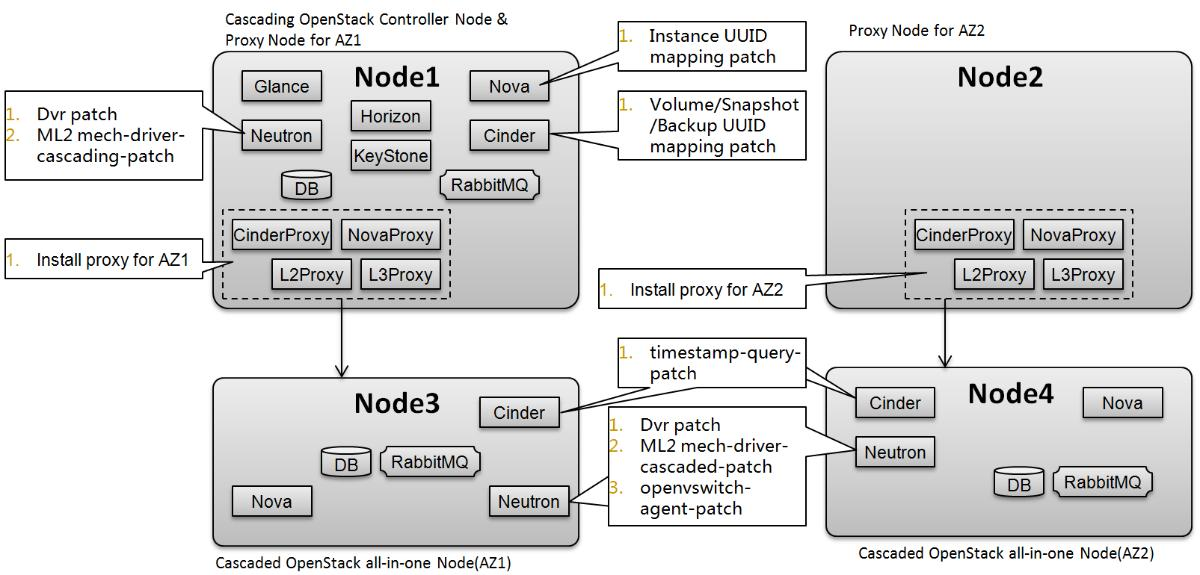
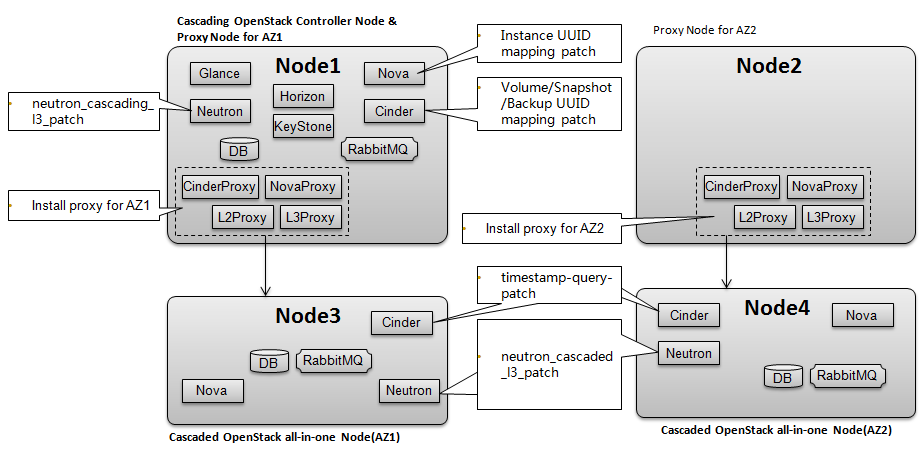
Modify Readme and install files
For Juno, the whole cascading readme file and the configuration
and install scripts  need to be changed.

Changed region(s): [[0.0, 0.0, 1.0, 0.9933], [0.82, 0.8071, 0.9718, 0.8692]]

diff --git a/README.md b/README.md
@@ -1,4 +1,4 @@
-Tricircle
+Tricircle
 ===============================
 
 Tricircle is a project for [Openstack cascading solution](https://wiki.openstack.org/wiki/OpenStack_cascading_solution), including the source code of Nova Proxy, Cinder Proxy, Neutron L2/L3 Proxy, Glance sync manager and Ceilometer Proxy(not implemented yet).
@@ -8,16 +8,12 @@ The project name "Tricircle" comes from a fractal. See the blog ["OpenStack casc
 Important to know
 -----------
 * Only about 15k code lines developed for OpenStack cascading.
-* The initial source code is for PoC only. Refactory will be done constantly to reach OpenStack acceptance standard.
-* DVR-Patch for IceHouse: the PoC source code is based on IceHouse version, while Neutron is a master branch snapshot on July 1, 2014 which include DVR feature, not IceHouse version. The Neutron code is download from github when it was still in the developement and review status. The source code of DVR part is not stable, and not all DVR features are included, for example, N-S functions not ready.
-* DVR-Patch is the majority source code in the repository, about 180k. The patch will be remove if OpenStack cascading is developed base on Juno.
-* The Neutron cascading using the feature of provider network. But horizon doen't support provider network very well. So you have to use Neutron CLI to create a network. Or set default provide network type to VxLAN, or remove "local", "flat", "VLAN", "GRE" network typedriver from ML2 plugin configuration.
-* For Neutron L2/L3 features, only VxLAN/L3 across casacaded OpenStack supported in the current source code. VLAN2VLAN, VLAN2VxLAN and VxLAN2VxLAN across cascaded OpenStack also implemented with IceHouse version but the patch is not ready yet, source code is in the VLAN2VLAN folder.
-* The tunneling network for cross OpenStack piggy data path is using VxLAN, it leads to modification on L2 agent and L3 agent, we will refactory it to using GRE for the tunneling network to reduce patch for Juno version.
-* If you want to experience VLAN2VLAN, VLAN2VxLAN and VxLAN2VxLAN across cascaded OpenStack, please ask help from PoC team member, see the wiki page [Openstack cascading solution](https://wiki.openstack.org/wiki/OpenStack_cascading_solution) for contact information.
+* The source code now based on Juno is for PoC only. Refactory will be done constantly to reach OpenStack acceptance standard.
+* The Neutron cascading using the feature of provider network. But horizon doen't support provider network very well. So you have to use Neutron CLI to create a network.
+* Support L2 networking(VxLAN) across cascaded OpenStack, but only p2p remote host IP tunneling supported now.L2 networking through L2GW to reduce population traffic and simplify networking topology will be developed in the near future.
+* The L3 networking across casacaded OpenStack will set up tunneling network for piggy data path, useing GRE tunneling over extra_route to brige the router in different cascaded OpenStack.Therefore, the loca L2 network (VLAN,VxLAN) in one cascaded OpenStack can reach L2 network(VLAN,VxLAN) located in another cascaded OpenStack.
 * Glance cascading using Glance V2 API. Only CLI/pythonclient support V2 API, the Horizon doesn't support that version. So image management should be done through CLI, and using V2 only. Otherwise, the glance cascading cannot work properly.
 * Glance cascading is not used by default, eg, useing global Glance by default. If Glance cascading is required, configuration is required.
-* Refactory the Tricircle source code based on Juno version will be started soon once the Juno version is available.
 
 
 Key modules
@@ -25,11 +21,11 @@ Key modules
 
 * Nova proxy
 
-    Similar role like Nova-Compute. Transfer the VM operation to cascaded Nova. Also responsible for attach volume and network to the VM in the cascaded OpenStack.
+    The hypervisor driver for Nova running on Nova-Compute node. Transfer the VM operation to cascaded Nova. Also responsible for attach volume and network to the VM in the cascaded OpenStack.
 
 * Cinder proxy
 
-    Similar role like Cinder-Volume. Transfer the volume operation to cascaded Cinder.
+    The Cinder-Volume driver for Cinder running on Cinder-Volume node.. Transfer the volume operation to cascaded Cinder.
 
 * Neuton proxy
 
@@ -42,9 +38,9 @@ Key modules
 Patches required
 ------------------
 
-* IceHouse-Patches
+* Juno-Patches
 
-    Pacthes for OpenStack IceHouse version, including patches for cascading level and cacscaded level.
+    Pacthes for OpenStack Juno version, including patches for cascading level and cacscaded level.
 
 Feature Supported
 ------------------
@@ -56,7 +52,7 @@ Feature Supported
     Create Volume/Delete Volume/Attach Volume/Detach Volume/Extend Volume/Create Snapshot/Delete Snapshot/List Snapshots/Create Volume from Snapshot/Create Volume from Image/Create Volume from Volume (Clone)/Create Image from Volume
 
 * Neutron cascading
-    Network/Subnet/Port/Router
+    Network/Subnet/Port/Router. Including L2/L3 networking across cascaded OpenStacks
 
 * Glance cascading
     Only support V2 api. Create Image/Delete Image/List Image/Update Image/Upload Image/Patch Location/VM Snapshot/Image Synchronization
@@ -66,19 +62,18 @@ Known Issues
 * Use "admin" role to experience these feature first, multi-tenancy has not been tested well.
 * Launch VM only support "boot from image", "boot from volume", "boot from snapshot"
 * Flavor only support new created flavor synchronized to the cascaded OpenStack, does not support flavor update synchronization to cascaded OpenStack yet.
-* Must make a patch for "Create a volume from image", the patch link: https://bugs.launchpad.net/cinder/+bug/1308058
 
 Installation without Glance cascading
 ------------
 
 * **Prerequisites**
-    - the minimal installation requires three OpenStack IceHouse installated to experience across cascaded OpenStacks L2/L3 function. The minimal setup needs four nodes, see the following picture:
+    - the minimal installation requires three OpenStack Juno installated to experience across cascaded OpenStacks L2/L3 function. The minimal setup needs four nodes, see the following picture:
 
     ![minimal_setup](./minimal_setup.png?raw=true)
 
     - the cascading OpenStack needs two node, Node1 and Node 2. Add Node1 to AZ1, Node2 to AZ2 in the cascading OpenStack for both Nova and Cinder.
 
-    - It's recommended to name the cascading Openstack region to "Cascading_OpenStack" or "Region1"
+    - It's recommended to name the cascading Openstack region to "Cascading" or "Region1"
 
     - Node1 is all-in-one OpenStack installation with KeyStone and Glance, Node1 also function as Nova-Compute/Cinder-Volume/Neutron OVS-Agent/L3-Agent node, and will be replaced to be the proxy node for AZ1.
 
@@ -94,9 +89,9 @@ Installation without Glance cascading
 
     Make sure the 3 OpenStack can work independently before cascading introduced, eg. you can boot VM with network, create volume and attach volume in each OpenStack. After verify that 3 OpenStack can work independently, clean all created resources VM/Volume/Network.
 
-    After all OpenStack installation is ready, it's time to install IceHouse pathces both for cascading OpenStack and cascaded OpenStack, and then replace the Nova-Compute/Cinder-Volume/Neutron OVS-Agent/L3-Agent to Nova Proxy / Cinder Proxy / Neutron l2/l3 Proxy.
+    After all OpenStack installation is ready, it's time to install Juno pathces both for cascading OpenStack and cascaded OpenStack, and then replace the Nova-Compute/Cinder-Volume/Neutron OVS-Agent/L3-Agent to Nova Proxy / Cinder Proxy / Neutron l2/l3 Proxy.
 
-* **IceHouse pachtes installation step by step**
+* **Juno pachtes installation step by step**
 
 1. Node1
   - Patches for Nova - instance_mapping_uuid_patch
@@ -105,147 +100,69 @@ Installation without Glance cascading
 
     Navigate to the folder
     ```
-    cd ./tricircle/icehouse-patches/nova/instance_mapping_uuid_patch
+    cd ./tricircle/juno-patches/nova/instance_mapping_uuid_patch
     ```
     follow README.md instruction to install the patch
 
   - Patches for Cinder - Volume/SnapShot/Backup UUID mapping patch
 
-    This patch is to make the Cinder proxy being able to translate the cascading level (Volume/Snapshot/backup)'s uuid to cascadede level (Volume/Snapshot/backup)'s uuid
+    This patch is to make the Cinder proxy being able to translate the cascading level (Volume/Snapshot/backup)'s uuid to cascaded level (Volume/Snapshot/backup)'s uuid
 
     Navigate to the folder
     ```
-    cd ./tricircle/icehouse-patches/cinder/instance_mapping_uuid_patch
+    cd ./tricircle/juno-patches/cinder/uuid-mapping-patch
     ```
     follow README.md instruction to install the patch
 
-  - Patches for Neutron - DVR patch
+  - Patches for Neutron - neutron_cascading_l3_patch
 
-    This patch is to make the Neutron has the DVR(distributed virtual router) feature. Through DVR, all L2/L3 proxy nodes in the cascading level can receive correspoding RPC message, and then convert the command to restful API to cascaded Neutron.
-
-    Navigate to the folder
-    ```
-    cd ./tricircle/icehouse-patches/neutron/dvr-patch
-    ```
-    follow README.md instruction to install the patch
-
-  - Patches for Neutron - ml2-mech-driver-cascading patch
-
-    This patch is to make L2 population driver being able to populate the VM's host IP which stored in the port binding profile in the cascaded OpenStack to another cascaded OpenStack.
+    This patch is to enable cross cascaded OpenStack L3 routing over extra route.The mapping between cascaded OpenStack and it's onlink external network which is used for GRE tunneling data path
 
     Navigate to the folder
     ```
-    cd ./tricircle/icehouse-patches/neutron/ml2-mech-driver-cascading-patch
+    cd ./tricircle/juno-patches/neutron/neutron_cascading_l3_patch
     ```
     follow README.md instruction to install the patch
 
 2. Node3
-  - Patches for Nova - port binding profile update bug: https://bugs.launchpad.net/neutron/+bug/1338202.
-
-    because ml2-mech-driver-cascaded-patch will update the binding profile in the port, and will be flushed to null if you don't fix the bug.
-
-    You can also fix the bug via:
-
-    Navigate to the folder
-    ```
-    cd ./tricircle/icehouse-patches/icehouse-patches/nova/instance_mapping_uuid_patch/nova/network/neutronv2/
-    cp api.py $python_installation_path/site-packages/nova/network/neutronv2/
-
-    ```
-    the patch will reserve what has been saved in the port binding profile
-
-  - Patches for Cinder - timestamp-query-patch patch
+  - Patches for Cinder - timestamp-query-patch
 
     This patch is to make the cascaded Cinder being able to execute query with timestamp filter, but not to return all objects.
 
     Navigate to the folder
     ```
-    cd ./tricircle/icehouse-patches/cinder/timestamp-query-patch_patch
+    cd ./tricircle/juno-patches/cinder/timestamp-query-patch
     ```
     follow README.md instruction to install the patch
 
-  - Patches for Neutron - DVR patch
+  - Patches for Neutron - neutron_cascaded_l3_patch
 
-    This patch is to make the Neutron has the DVR(distributed virtual router) feature.
-
-    Navigate to the folder
-    ```
-    cd ./tricircle/icehouse-patches/neutron/dvr-patch
-    ```
-    follow README.md instruction to install the patch
-
-  - Patches for Neutron - ml2-mech-driver-cascaded patch
-
-    This patch is to make L2 population driver being able to populate the virtual remote port where the VM located in another OpenStack.
+    This patch is to enable cross cascaded OpenStack L3 routing over extra route..
 
     Navigate to the folder
     ```
-    cd ./tricircle/icehouse-patches/neutron/ml2-mech-driver-cascaded-patch
-    ```
-    follow README.md instruction to install the patch
-
-  - Patches for Neutron - openvswitch-agent patch
-
-    This patch is to get dvr mac crossing openstack for cross OpenStack L3 networking for VLAN-VLAN/VLAN-VxLAN/VxLAN-VxLAN.
-
-    Navigate to the folder
-    ```
-    cd ./tricircle/icehouse-patches/neutron/openvswitch-agent-patch
+    cd ./tricircle/juno-patches/neutron/neutron_cascaded_l3_patch
     ```
     follow README.md instruction to install the patch
 
 3. Node4
-  - Patches for Nova - port binding profile update bug: https://bugs.launchpad.net/neutron/+bug/1338202.
-
-    because ml2-mech-driver-cascaded-patch will update the binding profile in the port, and will be flushed to null if you don't fix the bug.
-
-    You can also fix the bug via:
-
-    Navigate to the folder
-    ```
-    cd ./tricircle/icehouse-patches/icehouse-patches/nova/instance_mapping_uuid_patch/nova/network/neutronv2/
-    cp api.py $python_installation_path/site-packages/nova/network/neutronv2/
-
-    ```
-    the patch will reserve what has been saved in the port binding profile
-
-  - Patches for Cinder - timestamp-query-patch patch
+  - Patches for Cinder - timestamp-query-patch
 
     This patch is to make the cascaded Cinder being able to execute query with timestamp filter, but not to return all objects.
 
     Navigate to the folder
     ```
-    cd ./tricircle/icehouse-patches/cinder/timestamp-query-patch_patch
+    cd ./tricircle/juno-patches/cinder/timestamp-query-patch
     ```
     follow README.md instruction to install the patch
 
-  - Patches for Neutron - DVR patch
+  - Patches for Neutron - neutron_cascaded_l3_patch
 
-    This patch is to make the Neutron has the DVR(distributed virtual router) feature.
-
-    Navigate to the folder
-    ```
-    cd ./tricircle/icehouse-patches/neutron/dvr-patch
-    ```
-    follow README.md instruction to install the patch
-
-  - Patches for Neutron - ml2-mech-driver-cascaded patch
-
-    This patch is to make L2 population driver being able to populate the virtual remote port where the VM located in another OpenStack.
+    This patch is to enable cross cascaded OpenStack L3 routing over extra route..
 
     Navigate to the folder
     ```
-    cd ./tricircle/icehouse-patches/neutron/ml2-mech-driver-cascaded-patch
-    ```
-    follow README.md instruction to install the patch
-
-  - Patches for Neutron - openvswitch-agent patch
-
-    This patch is to get dvr mac crossing openstack for cross OpenStack L3 networking for VLAN-VLAN/VLAN-VxLAN/VxLAN-VxLAN.
-
-    Navigate to the folder
-    ```
-    cd ./tricircle/icehouse-patches/neutron/openvswitch-agent-patch
+    cd ./tricircle/juno-patches/neutron/neutron_cascaded_l3_patch
     ```
     follow README.md instruction to install the patch
 
@@ -348,7 +265,17 @@ Upgrade to Glance cascading
 
     Navigate to the folder
     ```
-    cd ./tricircle/icehouse-patches/glance/glance_location_patch
+    cd ./tricircle/juno-patches/glance/glance_location_patch
+    ```
+    follow README.md instruction to install the patch
+
+  - Patches for Glance - glance_store_patch
+
+    This patch is to make the glance being able to handle http url location.
+
+    Navigate to the folder
+    ```
+    cd ./tricircle/juno-patches/glance_store/glance_store_patch
     ```
     follow README.md instruction to install the patch
 
@@ -395,5 +322,3 @@ Upgrade to Glance cascading
   - Use Glance V2 api to create Image, Upload Image or patch location for Image. Image should be able to sync to distributed Glance if sync_enabled is setting to True
   - Sync image only during first time usage but not uploading or patch location is still in testing phase, may not work properly.
   - Create VM/Volume/etc from Horizon
-
-

diff --git a/novaproxy/README.md b/novaproxy/README.md
@@ -154,3 +154,9 @@ os_region_name=$os_region_name
 #The cascading level keystone component service url, by which the nova porxy
 #can access to  cascading level keystone service
 keystone_auth_url=$keystone_auth_url
+
+Note: a few options that belonged to the original nova have to be configured:
+
+.	allow_resize_to_same_host=True
+.	scheduler_default_filters=AvailabilityZoneFilter
+
